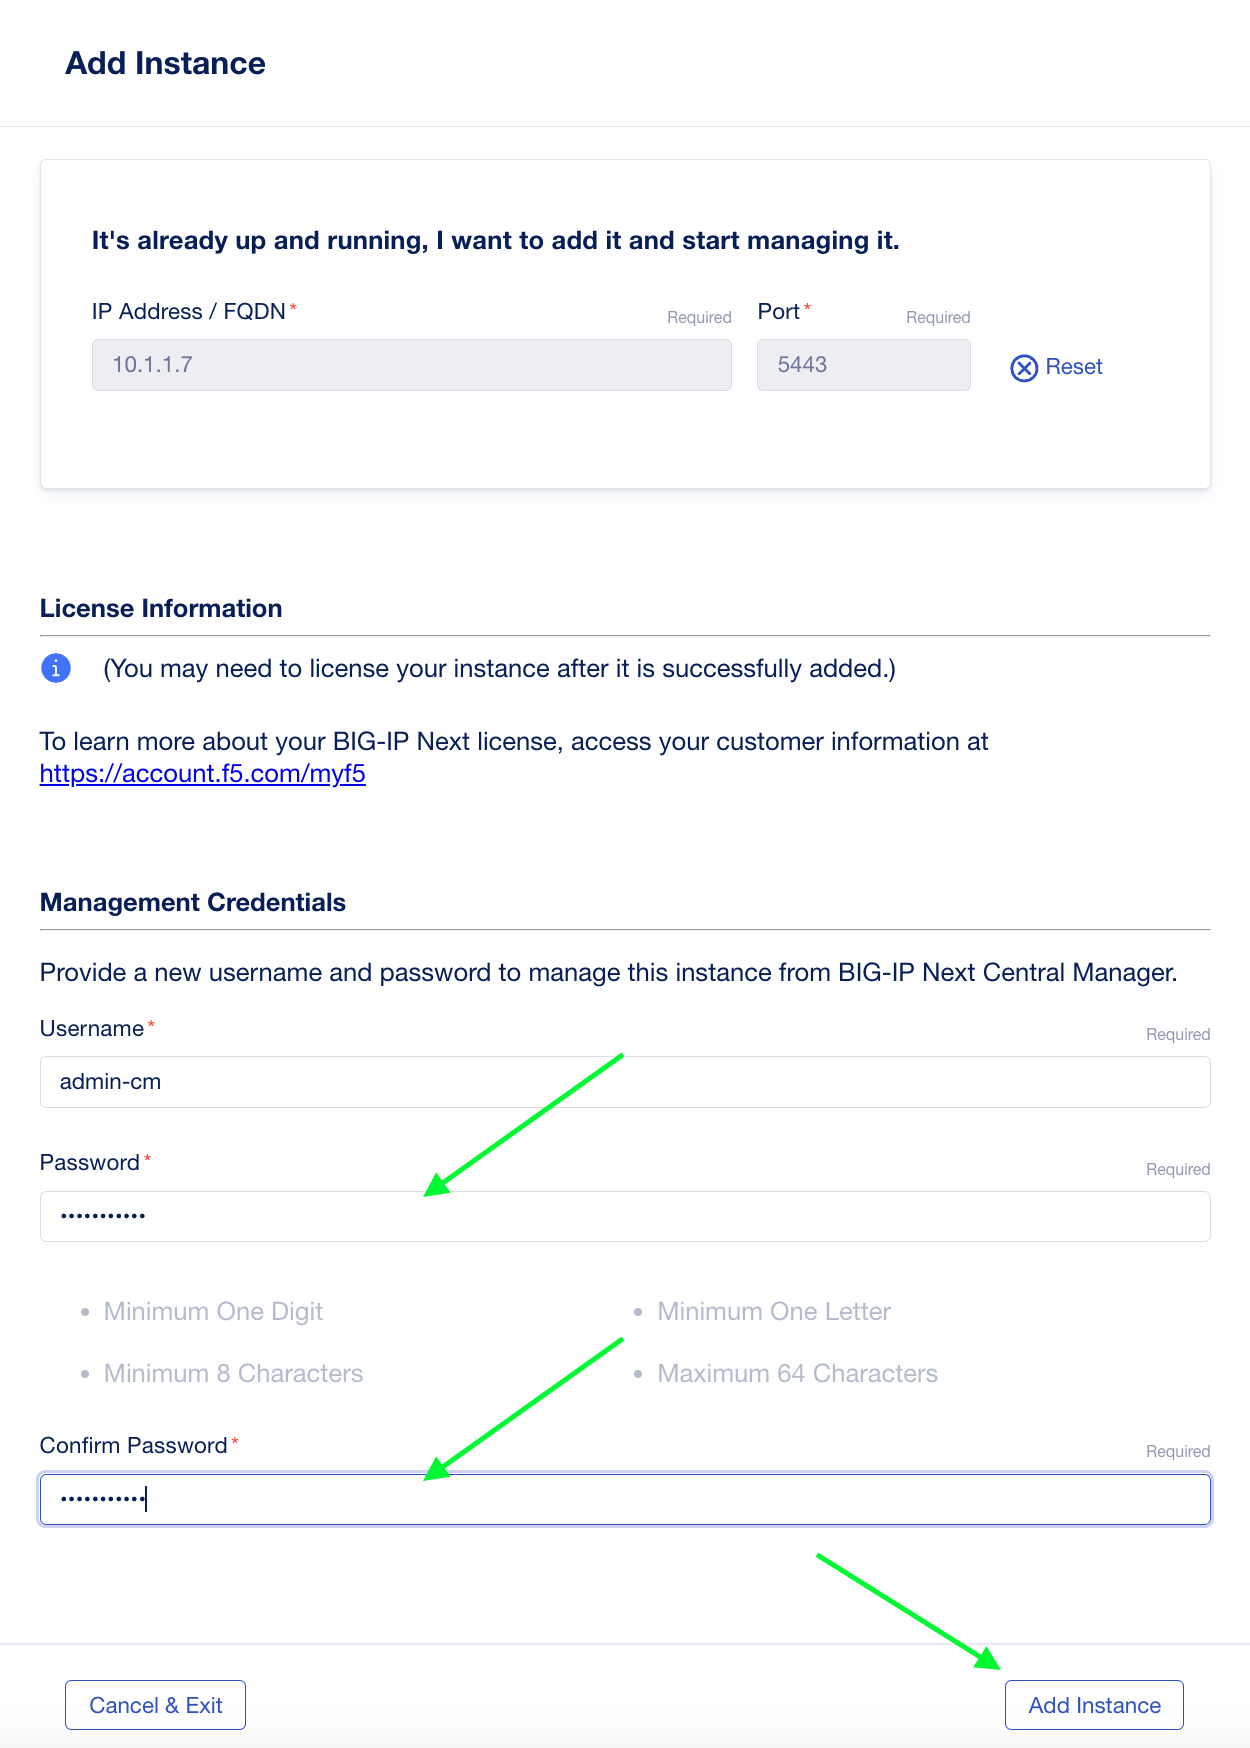
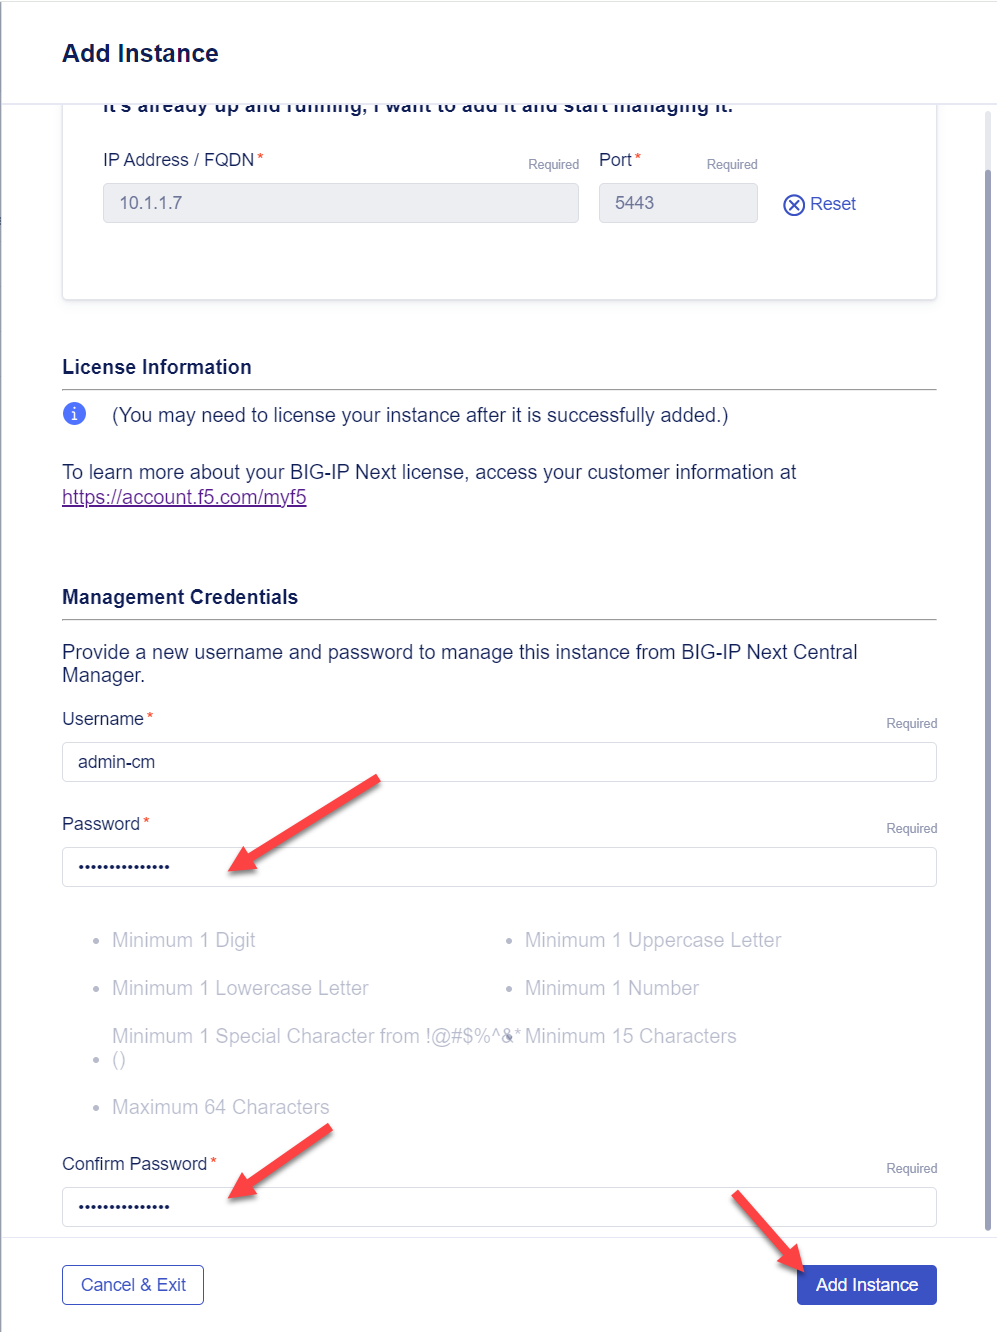
missing files

diff --git a/docs/class2/module1/lab2.rst b/docs/class2/module1/lab2.rst
@@ -1,0 +1,48 @@
+Lab 1.2 - Accessing the Lab Environment
+=======================================
+
+This is a multi-step process that will involve:
+
+1. Finding email invite to lab
+2. Creating F5 account (If you don't have one already)
+3. Setting up MFA for your F5 account (If you haven't already)
+4. Signing into the lab environment
+
+You should have received an email invitation to join the lab
+
+.. image:: email-invite.png
+    :scale: 25%
+
+Click on the link below "You can login to the UDF here"
+
+If you do not already have an F5 account you, will be prompted to create one.
+
+.. image:: create-account.png
+    :scale: 25%
+
+You should receive a new email to activate your account.
+
+.. image:: activate-account.png
+    :scale: 25%
+
+After you click on 'Activate Account' you should see the following screen.
+
+.. image:: account-activated.png
+    :scale: 25%
+
+You should next go to https://udf.f5.com (Yes, I know this is a lot of steps, sorry!)
+
+.. image:: udf-login.png
+    :scale: 25%
+
+Click on "Invited Users"
+
+You will now be prompted to set up MFA access to the lab environment (required)
+
+.. image:: mfa-setup.png
+    :scale: 25%
+
+After you complete your setup by selecting "Finish", you will be able to launch this course.
+
+.. image:: launch-course.png
+    :scale: 25%

diff --git a/docs/class2/module1/lab4.rst b/docs/class2/module1/lab4.rst
@@ -1,0 +1,42 @@
+Lab 1.4 - Lab Progress
+======================
+
+During this lab you can track your progress, along with your peers, via the "Lab Progress"
+application.
+
+#. Open the "Lab Progress Application"
+
+    It is accessible under the "Ubuntu Jump Host" device Access methods
+
+    .. image:: access-method-lab-progress.png
+        :scale: 50%
+
+    You will see your progress highlighted in gray.
+
+    .. image:: lab-progress-list.png
+        :scale: 75%
+
+#. Change your userid to your name
+
+
+    You optionally change the unique userid to your name by clicking on "Profile"
+
+    .. image:: lab-progress-profile.png
+        :scale: 40%
+
+#. View your detailed progress
+
+
+    To see your detailed progress click on "Status" or "View" from the Home page next to your userid
+
+    .. image:: lab-progress-details.png
+        :scale: 40%
+
+    Your progress is updated every 10 minutes.  If you would like to refresh your status faster, select "Check Status"
+
+#. Completing the lab
+
+    Once you complete the lab, you will have our utmost respect and admiration!
+
+    .. image:: lab-progress-completed.png
+        :scale: 75%

diff --git a/docs/class2/module1/lab3.rst b/docs/class2/module1/lab3.rst
@@ -1,0 +1,36 @@
+Lab 1.3 - Accessing Central Manager
+===================================
+
+During this lab we will primarily be using BIG-IP Next Central Manager
+
+.. warning:: It can take 10-15 minutes for Central Manager to completely start after you start the lab.  If you see a connection error, please try waiting.
+
+
+Accessing Central Manager from Access Method
+~~~~~~~~~~~~~~~~~~~~~~~~~~~~~~~~~~~~~~~~~~~~
+
+We recommend that you use Google Chrome within this lab environment.
+
+#. Find the "BIG-IP Next Central Manager" component under your "Deployments" and click on "Access" followed by "GUI"
+
+    .. image:: central-manager-access-method.png
+      :scale: 50%
+
+#. Log in to Central Manager
+
+    Please use the following credentials:
+
+        Username:
+            .. code-block:: console
+
+                admin
+
+        Password:
+            .. code-block:: console
+
+                Welcome123!
+
+    .. image:: central-manager-login-screen.png
+        :scale: 50%
+
+    .. image:: central-manager-home-screen.png

diff --git a/docs/class2/module1/lab1.rst b/docs/class2/module1/lab1.rst
@@ -1,0 +1,6 @@
+Lab 1.1 - About BIG-IP Next
+===========================
+
+BIG-IP Next is F5's next generation BIG-IP software built to offer greater automation capabilities, scalability, and ease-of-use for organizations running applications on-premise, in the cloud, or out at the edge. At its core, it is still the same BIG-IP that F5 customers know and trust, simply designed and rearchitected for the future.
+
+Declarative APIs are the foundation of BIG-IP Next's API-first design, making it faster and easier for DevOps, NetOps, and other BIG-IP reliant teams to manage and automate their deployments. A completely rearchitected and modernized software layer also provides the basis for significantly improved control plane scale, reduced cloud footprint, and rapid instance upgrades.

diff --git a/docs/class2/module2/lab2a1-cm_add_instance_to_big_ip_ma.rst b/docs/class2/module2/lab2a1-cm_add_instance_to_big_ip_ma.rst
@@ -35,7 +35,7 @@ Before you add an instance to BIG-IP Next Central Manager, please confirm BIG-IP
 
 	.. code-block:: console
 
-		Welcome123!
+		Welcome1234567!
 
 Procedure
 ~~~~~~~~~
@@ -77,7 +77,7 @@ Procedure
 
     .. code-block:: console
 
-      Welcome123!
+      Welcome1234567!
 
     .. image:: ./lab2_next_cm_login_to_instance.png
       :scale: 25%
@@ -94,7 +94,7 @@ Procedure
 
     .. code-block:: console
 
-      Welcome123!
+      Welcome1234567!
 
     .. image:: ./lab2_next_cm_add_instance_management_credentials.png
       :scale: 25%

diff --git a/docs/class2/module2/lab3.rst b/docs/class2/module2/lab3.rst
@@ -18,7 +18,7 @@ Procedure
     .. image:: ./lab2_img03_navigation_to_infrastructure2.png
         :scale: 25%
 
-#. Click on the Name of the instance that you previously added ("big-ip-next-01.f5demo.com").
+#. Click on the Name of the instance that you previously added ("big-ip-next-01.example.com").
 
     .. image:: ./click-on-big-ip-next-01.png
         :scale: 50%

diff --git a/docs/class2/module1/module1.rst b/docs/class2/module1/module1.rst
@@ -1,0 +1,11 @@
+Module 1: Introduction to the lab
+=================================
+
+In this lab we will be utilizing the Unified Demo Framework (UDF) to learn about BIG-IP Next and
+BIG-IP Next Central Manager
+
+.. toctree::
+   :maxdepth: 1
+   :glob:
+
+   lab*

diff --git a/docs/class2/class2.rst b/docs/class2/class2.rst
@@ -1,0 +1,13 @@
+Introduction to BIG-IP Next Operations
+=======================================
+
+Introduction to BIG-IP Next Operations
+
+.. toctree::
+   :maxdepth: 1
+   :glob:
+
+   module1/module*
+   module2/module*
+   module3/module*
+   module4/module*   

diff --git a/docs/class2/module2/module2.rst b/docs/class2/module2/module2.rst
@@ -6,3 +6,4 @@ Module 2: Discover Nodes with Central Manager
 
    lab2a1-cm_add_instance_to_big_ip_ma.rst
    lab3.rst
+   lab4.rst
